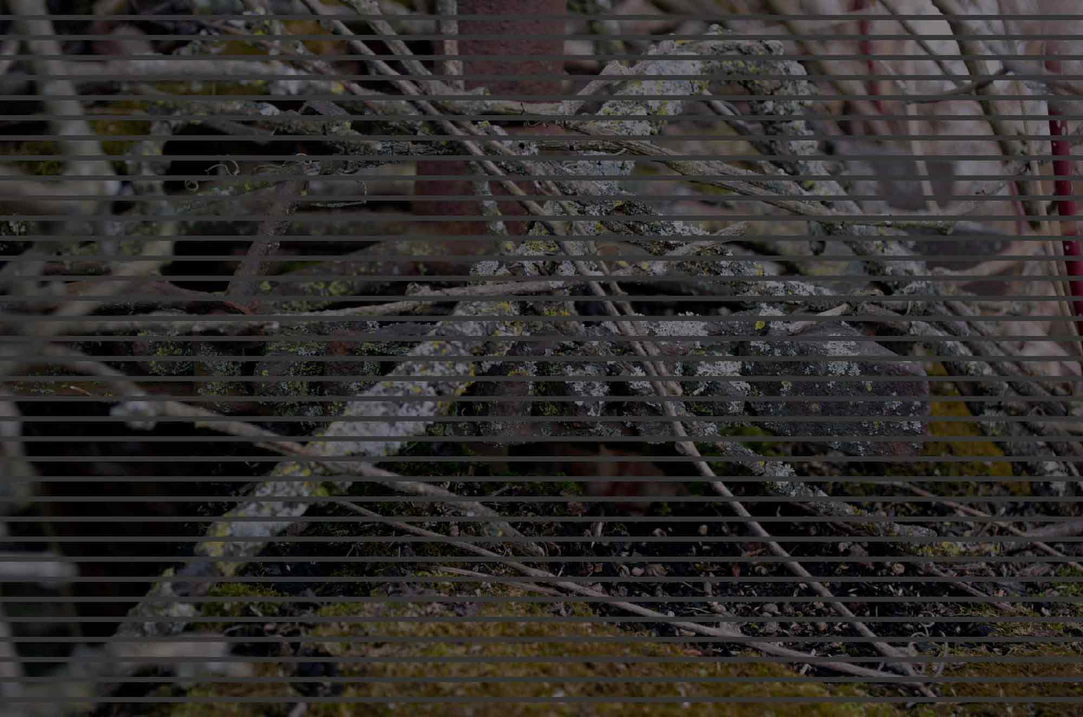
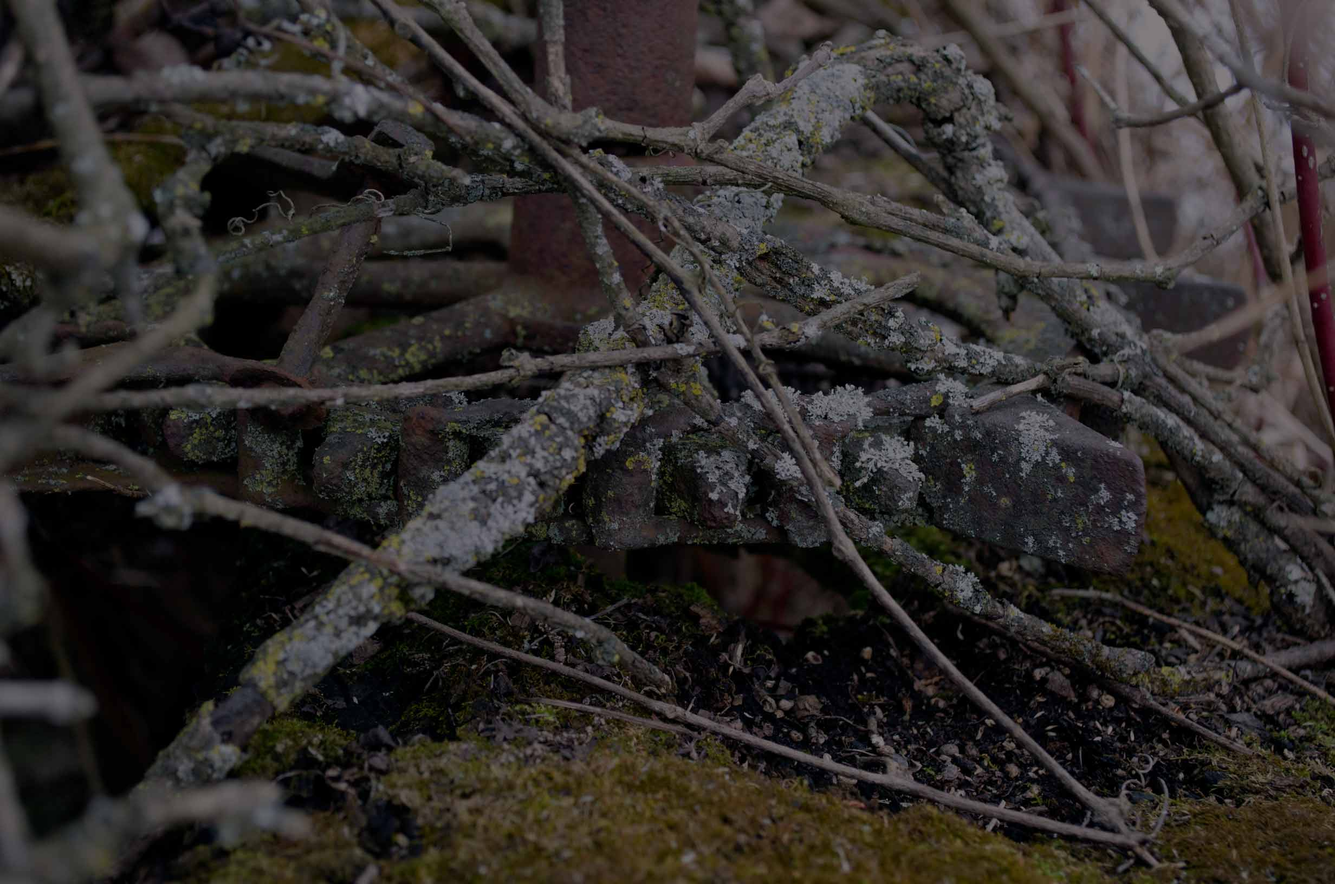
get rid of lined background

diff --git a/leavn.html b/leavn.html
@@ -6,29 +6,29 @@ cssName: case-study
 header: LEAVN
 content-name: Case Study of a UX app called "Leav'N", designed by Tessa Sherin-Snidal.
 about: LEAVN is a travel itinerary logging app that allows travelers to keep their travel information organized and in one place. This app is useful for travelers who need a stress-free way to keep all their travel information in one place, because it is easy to lose and miss important events.<br><br>With LEAVN the user gets to easily keep their travel itinerary in one place. This app then links up with the user's smartwatch to allow them to receive alerts straight to their watch, for easy, stress-free travel.
-img: 9
+img: 5
 link: leavn
 ---
 
-<div itemscope itemtype="https://schema.org/Creativework" class="bgimg-6">
+<div itemscope itemtype="https://schema.org/Creativework" class="bgimg-5">
   <div class="dborder">
     <h2 class="text-left section gutter pad-t-2 pad-b-2 push-0 mega">Design Outline</h2>
     <div class="w3-white pad-t-2 pad-b-2" style="margin:2.6rem;">
       <h3 class="gutter-2">Font</h3>
-      <div class="gutter-2 pad-b-2">
-        <div class="pad-b case">
+      <div class="gutter-2 pad-b-2 case">
+        <div class="pad-b">
           <img src="{{site.baseurl}}/images/roboto.svg" alt="SF UI Display Font Block" style="width:45%; max-width:350px; display:inline-block;">
           <img src="{{site.baseurl}}/images/roboto-text.svg" alt="SF UI Display Text" style="width:45%; max-width:350px; display:inline-block;">
         </div>
 
       </div>
       <h3 class="gutter-2">Colours</h3>
-      <div class="gutter-2 case pab-b-2">
+      <div class="gutter-2 pab-b-2 case">
         <svg xmlns="http://www.w3.org/2000/svg" id="Layer_1" viewBox="0 0 1000 1000" width="100px" height="100px"><style>.st0{fill:#303030;}</style><circle cx="497.3" cy="497.3" r="497.3" class="st0"/></svg>
         <svg xmlns="http://www.w3.org/2000/svg" id="Layer_1" viewBox="0 0 1000 1000" width="100px" height="100px"><style>.st1{fill:#536DFE;}</style><circle cx="497.3" cy="497.3" r="497.3" class="st1"/></svg>
       </div>
       <h3 class="gutter-2 pad-t-2">Icons</h3>
-      <div class="gutter-2 case pab-b-2">
+      <div class="gutter-2 text-center pab-b-2 case">
         <div>
           <svg xmlns="http://www.w3.org/2000/svg" viewBox="871 770 24 24" width="5em" height="5em"><defs><style>.cls-1{fill:none}.cls-2{fill:#333}</style></defs><g id="ic_card_travel_black_24px" transform="translate(871 770)"><path id="Path_321" d="M0 0h24v24H0z" class="cls-1"/><g id="Symbol_5_1"><path id="Path_322" d="M20 6h-3V4a1.993 1.993 0 0 0-2-2H9a1.993 1.993 0 0 0-2 2v2H4a1.993 1.993 0 0 0-2 2v11a1.993 1.993 0 0 0 2 2h16a1.993 1.993 0 0 0 2-2V8a1.993 1.993 0 0 0-2-2zM9 4h6v2H9zm11 15H4v-2h16zm0-5H4V8h3v2h2V8h6v2h2V8h3z" class="cls-2"/></g></g></svg>
 
@@ -66,58 +66,65 @@ link: leavn
       <h3 class="gutter-2 text-left">Screens</h3>
 
       <div class="gutter-2 pad-b-2 inline-block">
-        <a class="arrow" onclick="myFunction3()">
-          <img class="piece phone" src="{{site.baserurl}}/images/leavn-triplog.png" alt="Trip Log Screen">
-          <h2 itemprop="name" class="pad-t milli" style="text-align:center!important;">Learn More</h2>
-        </a>
-        <div id="Demo3" class="w3-dropdown-content w3-text-black block " style="width:100%; margin-left:auto; margin-right:auto; max-width:500px;"><br>
+        <div class="inline-block gutter-1-2">
+          <a href="#Demo3" class="arrow" onclick="myFunction3()">
+            <img class="piece phone" src="{{site.baserurl}}/images/leavn-triplog.png" alt="Trip Log Screen">
+            <h2 itemprop="name" class="pad-t milli" style="text-align:center!important;">Learn More</h2>
+          </a>
+        </div>
+        <div class="inline-block gutter-1-2">
+          <a href="#Demo4" class="arrow" onclick="myFunction4()">
+            <img class="piece phone" src="{{site.baserurl}}/images/leavn-trip.png" alt="Trips Screen">
+            <h2 itemprop="name" class="pad-t milli" style="text-align:center!important;">Learn More</h2>
+          </a>
+        </div>
+        <div class="inline-block gutter-1-2">
+          <a href="#Demo5" class="arrow" onclick="myFunction5()">
+            <img class="piece phone" src="{{site.baserurl}}/images/leavn-itinerary.png" alt="Itinerary Screen">
+            <h2 itemprop="name" class="pad-t milli" style="text-align:center!important;">Learn More</h2>
+          </a>
+        </div>
+        <div class="inline-block gutter-1-2">
+          <a href="#Demo6" class="arrow" onclick="myFunction6()">
+            <img class="piece phone" src="{{site.baserurl}}/images/leavn-profile.png" alt="Settings Screen">
+            <h2 itemprop="name" class="pad-t milli" style="text-align:center!important;">Learn More</h2>
+          </a>
+        </div>
+        <div id="Demo3" class="w3-dropdown-content w3-text-black" style="width:100%; margin-left:auto; margin-right:auto; max-width:500px;"><br>
           <div class="wrapper">
-            <h3 class="push-1-2 pad-t">Trip Log</h3>
-            <p>The Triplog page allows for a simple quick look at where and when their future trips will be and they are not over loaded with all the information about each trip. There is also access to look at past trips to keep track of where they've been.</p>
+            <img class="piece phone float-left" src="{{site.baserurl}}/images/triplog.png" alt="Trip Log">
+            <div class="float-right">
+              <h3 class="push-1-2 pad-t text-center">Trip Log</h3>
+              <p>The Triplog page allows for a simple quick look at where and when their future trips will be and they are not over loaded with all the information about each trip. There is also access to look at past trips to keep track of where they've been.</p>
+            </div>
           </div>
         </div>
-      </div>
-
-      <div class="gutter-2 pad-b-2 inline-block">
-        <a class="arrow" onclick="myFunction4()">
-          <img class="piece phone" src="{{site.baserurl}}/images/leavn-trip.png" alt="Trips Screen">
-          <h2 itemprop="name" class="pad-t milli" style="text-align:center!important;">Learn More</h2>
-        </a>
-        <div id="Demo4" class="w3-dropdown-content w3-text-black block " style="width:100%; margin-left:auto; margin-right:auto; max-width:500px;"><br>
+        <div id="Demo4" class="w3-dropdown-content w3-text-black" style="width:100%; margin-left:auto; margin-right:auto; max-width:500px;"><br>
           <div class="wrapper">
-            <h3 class="push-1-2 pad-t">Trips</h3>
+            <img class="piece phone" src="{{site.baserurl}}/images/trips.png" alt="Trips">
+            <h3 class="push-1-2 pad-t text-center">Trips</h3>
             <p>The Trip page allows for the user to log their future trips and add in the events that they will be on during that trip. This way all their trip information is laid out in front of them in a quick simple overview.</p>
           </div>
         </div>
-      </div>
-
-      <div class="gutter-2 pad-b-2 inline-block">
-        <a class="arrow" onclick="myFunction5()">
-          <img class="piece phone" src="{{site.baserurl}}/images/leavn-itinerary.png" alt="Itinerary Screen">
-          <h2 itemprop="name" class="pad-t milli" style="text-align:center!important;">Learn More</h2>
-        </a>
-        <div id="Demo5" class="w3-dropdown-content w3-text-black block" style="width:100%; margin-left:auto; margin-right:auto; max-width:500px;"><br>
+        <div id="Demo5" class="w3-dropdown-content w3-text-black" style="width:100%; margin-left:auto; margin-right:auto; max-width:500px;"><br>
           <div class="wrapper">
-            <h3 class="push-1-2 pad-t">Itinerary</h3>
+            <img class="piece phone" src="{{site.baserurl}}/images/itinerary.png" alt="Itinerary">
+            <h3 class="w3-bar-item push-1-2 pad-t">Itinerary</h3>
             <p class="w3-bar-item">The Itinerary page allows for the user to quickly and simply see a timeline layout of all their events and chose whether the event sends a notification alert to the user's phone and/or smart watch to keep track and not miss a single event.</p>
           </div>
         </div>
-      </div>
-
-      <div class="gutter-2 pad-b-2 inline-block">
-        <a class="arrow" onclick="myFunction6()">
-          <img class="piece phone" src="{{site.baserurl}}/images/leavn-profile.png" alt="Settings Screen">
-          <h2 itemprop="name" class="pad-t milli" style="text-align:center!important;">Learn More</h2>
-        </a>
-        <div id="Demo6" class="w3-dropdown-content w3-text-black block" style="width:100%; margin-left:auto; margin-right:auto; max-width:500px;"><br>
+        <div id="Demo6" class="w3-dropdown-content w3-text-black" style="width:100%; margin-left:auto; margin-right:auto; max-width:500px;"><br>
           <div class="wrapper">
-            <h3 class="push-1-2 pad-t">Settings</h3>
-            <p>The Setting page is just a simple page where the user can keep track of the notification settings and the user's name. This allows for easy access to change whenever the user wishes.</p>
+            <img class="piece phone" src="{{site.baserurl}}/images/settings.png" alt="Settings">
+            <h3 class="w3-bar-item push-1-2 pad-t text-center">Settings</h3>
+            <p class="w3-bar-item">The Setting page is just a simple page where the user can keep track of the notification settings and the user's name. This allows for easy access to change whenever the user wishes.</p>
+            <span onclick="this.parentElement.style.display='none'"
+            class="w3-display-topright w3-button w3-transparent w3-text-white yotta" style="text-shadow: 2px 2px 4px #333;">&times;</span>
           </div>
         </div>
       </div>
 
-      <a class="leavn about title lea micro text-center" style="display:block; width:227px;" href="https://xd.adobe.com/view/bc08b077-fb4e-4f97-8fe0-69a13d4a1512/"> -> <span>Try It Out!</span> <- </a>
+      <a class="download about title btn micro text-center" style="display:block; width:215px; border:3px solid #333; background-color:#536DFE; padding:12px!important; letter-spacing:4px; text-align:center;" href="https://xd.adobe.com/view/bc08b077-fb4e-4f97-8fe0-69a13d4a1512/"> -> <span style="font-size:.7901rem;">Try It Out!</span> <- </a>
 
 
 

diff --git a/css/nav-footer.css b/css/nav-footer.css
@@ -384,7 +384,7 @@ w3-dropdown-hover:hover {
 @media only screen and (max-device-width: 1024px) {
   .bgimg-1, .bgimg-2, .bgimg-3, .bgimg-4, .bgimg-5, .bgimg-6, .bgimg-7, .bgimg-8, .bgimg-9 {
     background-attachment: scroll;
-    background-image: linear-gradient( var(--color-primary), var(--color-secondary), var(--color-primary))!important;
+    background-image: linear-gradient( var(--color-secondary), var(--color-primary), var(--color-primary), var(--color-secondary))!important;
   }
 
   html {
